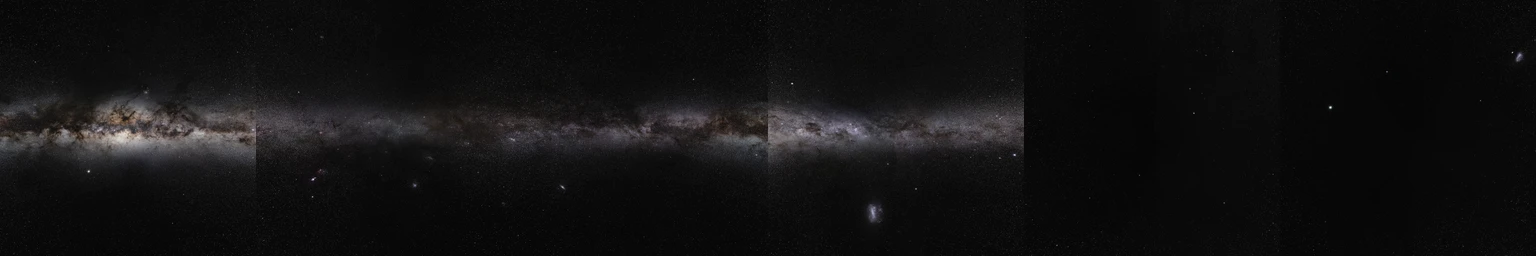
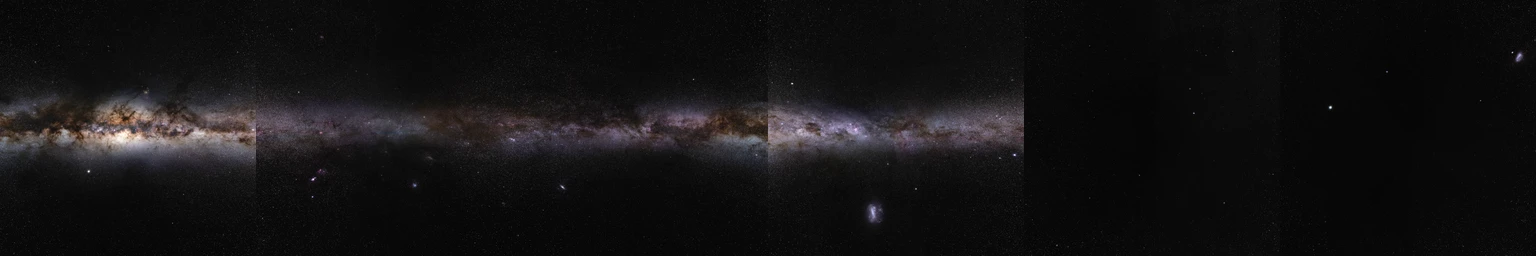
Recover observed warm and cool Milky Way clouds while keeping stellar peaks subdued

diff --git a/docs/index.html b/docs/index.html
@@ -10,7 +10,7 @@
   <link rel="icon" href="assets/lab.svg" type="image/svg+xml">
   <link rel="preload" as="image" href="assets/space/sun-atlas-visible.webp" fetchpriority="high">
   <link rel="preload" as="image" href="assets/space/corona-optical-poster.webp">
-  <script defer src="survey-sky.js?v=e98d0e96c6"></script>
+  <script defer src="survey-sky.js?v=9db1ea2994"></script>
   <link rel="stylesheet" href="style.css?v=bef73a6b09">
   <script defer src="initial.js?v=8fbc8dd904"></script><script defer src="media.js?v=a3470a0f5e"></script><script defer src="gravity.js?v=946a34cb27"></script><script defer src="orientation.js?v=ab67e6a648"></script><script defer src="stars.js?v=fe36ec13e3"></script><script defer src="map-space.js?v=d5f2ddea76"></script><script defer src="flyby.js?v=d7892f0148"></script><script defer src="solar-emission.js?v=59e888d152"></script><script defer src="solar.js?v=782690dd93"></script><script defer src="saturn-rings.js?v=4f814181e8"></script><script defer src="map-materials.js?v=b04f07c3ce"></script><script defer src="map.js?v=c5d659563a"></script><script defer src="optics.js?v=4a7a374746"></script><script defer src="software.js?v=a676e39286"></script><script defer src="flight.js?v=49c66cbb40"></script><script defer src="assets/vendor/satellite.min.js?v=6fd7487abb"></script><script defer src="catalog-orbits.js?v=ad4aee257c"></script><script defer src="catalog-data.js?v=a4e973682e"></script><script defer src="catalog-chart.js?v=c170c484e7"></script><script defer src="catalog.js?v=40f450b2d1"></script><script defer src="satellite-layer.js?v=a6886381e1"></script><script defer src="cosmos.js?v=a3a8915ae3"></script><script defer src="exo-model.js?v=2716ee6f92"></script><script defer src="compact-optics.js?v=76324eb82f"></script><script defer src="exo-materials.js?v=11d25b7eb7"></script><script defer src="exo-view.js?v=4f668c7f00"></script><script defer src="app.js?v=3083b51bc5"></script>
 </head>
@@ -221,7 +221,7 @@
   <p><b>동행 비행</b>에서는 태양계와 함께 이동하는 카메라로 지난 365일 궤적의 일부를 가까이서 봅니다. 자동 이동 중에는 시선 방향을 유지한 채 관측 위치가 천천히 바뀌어 가까운 행성과 먼 별의 위치 차이가 드러납니다. 선은 각 천체가 지나온 위치를 이은 자취이며, 오래된 구간일수록 흐려집니다. <b>화면만 보기</b>를 누르면 이름과 조작판을 숨길 수 있습니다.</p>
   <p><b>궤도 전경</b>은 은하수를 향해 이동하는 태양계와 지난 1년의 궤적을 비스듬히 바라봅니다. 가까운 궤적은 넓게 펼쳐지고 먼 궤적은 별하늘 쪽으로 가늘게 이어집니다. 세로 화면에서는 여덟 행성과 1년의 궤적이 화면의 긴 방향을 따라 놓입니다. <b>보기 설정 → 시간 눈금</b>에서 천체를 고르면 과거 위치와 진행 방향이 보입니다. 두 시점은 각각 각도와 확대를 기억하며 <b>기본 구도</b>로 되돌릴 수 있습니다.</p>
   <p>태양이 시야에 들어오면 카메라가 별하늘의 노출을 낮춥니다. <b>보기 설정 → 별빛 강조</b>로 은하수의 어두운 부분을 더 볼 수 있습니다. 기본 은하 지도는 공전 궤적을 읽기 쉽도록 천체와 궤도의 폭을 확대합니다. 은하 진행 방향으로 이동한 거리는 실제 계산값을 유지합니다. <b>실제 비율</b>을 켜면 천체의 반지름과 거리에 같은 축척을 적용합니다. <a href="https://eol.jsc.nasa.gov/FAQ/default.htm" target="_blank" rel="noreferrer">NASA · 우주 사진의 노출</a></p>
-  <p>궤도 전경과 동행 비행에서는 태양과 행성이 잘 보이도록 별빛을 낮췄습니다. 보랏빛 은하수와 먼지 띠, 가까운 은하 네 곳은 밤하늘 사진에 함께 담겨 있습니다. 먼 은하 16곳의 빛도 실제 방향과 각지름에 맞춰 같은 하늘에 합쳤습니다. <b>보기 설정 → 은하 강조</b>를 켜면 희미한 은하를 찾기 쉽습니다. 은하나 이름을 누르거나 <b>보기 설정 → 은하 탐사</b>를 열면 스무 은하의 빛 분포를 입체로 돌려 보고 관측 사진과 비교할 수 있습니다. 두께와 뒷면은 모형으로 추정했습니다. <a href="https://www.legacysurvey.org/acknowledgment/" target="_blank" rel="noreferrer">Legacy Surveys / D. Lang (Perimeter Institute)</a> · <a href="https://creativecommons.org/licenses/by/4.0/" target="_blank" rel="noreferrer">CC BY 4.0</a> · <a href="https://ps1images.stsci.edu/cgi-bin/ps1cutouts" target="_blank" rel="noreferrer">Pan-STARRS1 / STScI</a> · <a href="https://github.com/mattiaverga/OpenNGC" target="_blank" rel="noreferrer">OpenNGC · CC BY-SA 4.0</a></p>
+  <p>궤도 전경과 동행 비행에서는 태양과 행성이 잘 보이도록 별빛을 낮췄습니다. 은하수의 별구름마다 관측 사진에 담긴 색을 살리고 어두운 먼지 띠의 결을 드러냈습니다. 가까운 은하 네 곳도 이 사진에 함께 담겨 있습니다. 먼 은하 16곳의 빛도 실제 방향과 각지름에 맞춰 같은 하늘에 합쳤습니다. <b>보기 설정 → 은하 강조</b>를 켜면 희미한 은하를 찾기 쉽습니다. 은하나 이름을 누르거나 <b>보기 설정 → 은하 탐사</b>를 열면 스무 은하의 빛 분포를 입체로 돌려 보고 관측 사진과 비교할 수 있습니다. 두께와 뒷면은 모형으로 추정했습니다. <a href="https://www.legacysurvey.org/acknowledgment/" target="_blank" rel="noreferrer">Legacy Surveys / D. Lang (Perimeter Institute)</a> · <a href="https://creativecommons.org/licenses/by/4.0/" target="_blank" rel="noreferrer">CC BY 4.0</a> · <a href="https://ps1images.stsci.edu/cgi-bin/ps1cutouts" target="_blank" rel="noreferrer">Pan-STARRS1 / STScI</a> · <a href="https://github.com/mattiaverga/OpenNGC" target="_blank" rel="noreferrer">OpenNGC · CC BY-SA 4.0</a></p>
   <p>은하 궤적의 기본 하늘은 칠레와 라팔마에서 찍은 은하수 전천 사진입니다. 6,000 × 3,000 원본을 여섯 방향으로 나눠 투영하고 히파르코스 별의 위치에 맞췄습니다. <b>보기 설정 → 가이아 별지도</b>를 켜면 같은 방향을 NASA/SVS가 Gaia DR2 관측으로 재구성한 지도로 볼 수 있습니다. <a href="https://www.eso.org/public/images/eso0932a/" target="_blank" rel="noreferrer">은하수 사진 ESO/S. Brunier</a> · <a href="https://creativecommons.org/licenses/by/4.0/" target="_blank" rel="noreferrer">CC BY 4.0</a> · 투영과 밝기 조정. <a href="https://svs.gsfc.nasa.gov/4851/" target="_blank" rel="noreferrer">NASA/Goddard Space Flight Center Scientific Visualization Studio · ESA/Gaia/DPAC</a></p>
   <p><b>태양 기준</b>에서는 그때의 태양 위치에서 본 궤도를 그립니다. <b>은하 기준</b>에서는 태양계 전체가 우리은하의 회전 방향으로 움직인 거리까지 더해 지난 365일의 궤적을 그립니다. 기본 카메라는 현재 태양계를 따라갑니다. <b>카메라 고정</b>을 누르면 관측 위치가 고정되어 태양과 행성이 화면을 가로질러 이동합니다. 지도를 드래그하면 같은 궤적을 옆에서도 볼 수 있습니다.</p>
   <p>태양이 우리은하를 한 바퀴 도는 데에는 약 2억 2천만 년이 걸립니다. 태양 부근의 원운동 속도를 약 230 km/s로 두고 짧은 구간을 직선으로 근사했습니다. 행성 궤도면은 이 진행 방향에 기울어져 있어 행성은 공전하면서 태양보다 앞서거나 뒤처지기도 합니다. 실험 시작 전의 자취는 원래 태양계를 거꾸로 적분해 구했습니다. 실험 선택 후 실행하면 해당 시점부터 달라진 자취가 이어집니다.</p>

diff --git a/docs/survey-sky.js b/docs/survey-sky.js
@@ -10,7 +10,8 @@ globalThis.createSurveySky = function createSurveySky(invalidate) {
   let dir="",generation=0;
   function skyFile(name){
     const path=dir+name+".webp";
-    return globalThis.LabPacked?.[path]||path+"?v=diffuse-sky-1";
+    const version=dir.endsWith("photographic/")?"optical-clouds-2":"diffuse-sky-1";
+    return globalThis.LabPacked?.[path]||path+"?v="+version;
   }
   function initialize(){
     const vertex="attribute vec2 corner; varying vec2 screen; void main(){screen=corner; gl_Position=vec4(corner,0.,1.);}";

diff --git a/README.md b/README.md
@@ -14,7 +14,7 @@
 
 [토성 고리 가까이 보기](https://chadchad99.github.io/orbit-lab/#map/galaxy/saturn/near/play)에서 0.03배속으로 안쪽과 바깥쪽 고리의 공전을 비교할 수 있습니다. 고리 위 네 구간의 명암은 입자의 움직임을 드러내기 위해 강조한 예시입니다.
 
-궤도 전경과 동행 비행에서는 맑은 하늘 사진의 보랏빛 은하수와 먼지 띠를 유지하고, 개별 별의 밝기를 낮춰 태양과 행성이 잘 보이게 했습니다. 외부 은하의 빛은 실제 방향과 각지름에 맞춰 같은 하늘에 담았습니다. **보기 설정 → 은하 강조**를 켜면 작은 은하를 찾기 쉬워집니다. 은하의 이름을 누르거나 **보기 설정 → 은하 탐사**를 열면 은하 20개의 중심부와 먼지 띠, 나선팔을 확대하고 시점을 돌릴 수 있습니다. 빛 분포는 관측 사진에서 가져왔고, 두께와 뒷면은 추정했습니다. **관측 사진**에서 같은 은하의 실제 관측 모습도 확인할 수 있습니다. [안드로메다은하 탐사](https://chadchad99.github.io/orbit-lab/#galaxy/m31) · [막대나선은하 NGC 1365 탐사](https://chadchad99.github.io/orbit-lab/#galaxy/ngc1365) · [은하별 관측 자료](docs/assets/catalog/cosmos/structures.json)
+궤도 전경과 동행 비행에서는 ESO의 가시광 사진에서 은하수 별구름마다 관측된 색과 먼지 띠의 질감을 살리고, 개별 별의 밝기를 낮춰 태양과 행성이 잘 보이게 했습니다. 외부 은하의 빛은 실제 방향과 각지름에 맞춰 같은 하늘에 담았습니다. **보기 설정 → 은하 강조**를 켜면 작은 은하를 찾기 쉬워집니다. 은하의 이름을 누르거나 **보기 설정 → 은하 탐사**를 열면 은하 20개의 중심부와 먼지 띠, 나선팔을 확대하고 시점을 돌릴 수 있습니다. 빛 분포는 관측 사진에서 가져왔고, 두께와 뒷면은 추정했습니다. **관측 사진**에서 같은 은하의 실제 관측 모습도 확인할 수 있습니다. [안드로메다은하 탐사](https://chadchad99.github.io/orbit-lab/#galaxy/m31) · [막대나선은하 NGC 1365 탐사](https://chadchad99.github.io/orbit-lab/#galaxy/ngc1365) · [은하별 관측 자료](docs/assets/catalog/cosmos/structures.json)
 
 은하 궤적의 기본 하늘은 ESO/S. Brunier가 칠레와 라팔마에서 촬영한 은하수 전천 사진입니다. 6,000 × 3,000 원본의 색을 살리고 은하수의 먼지 띠와 히파르코스 별을 같은 하늘 좌표에 맞췄습니다. **보기 설정 → 가이아 별지도**를 켜면 같은 방향을 Gaia DR2 기반 NASA/SVS 지도로 볼 수 있습니다. 히파르코스 별 25,723개 중 측정값이 있는 25,713개에는 고유운동을 적용하고, 행성 곁에서는 거리가 알려진 별의 시차도 반영합니다. 화성과 목성 사이에는 JPL 목록에서 뽑은 소행성 1,024개의 위치를 날짜에 따라 계산합니다. 세레스나 베스타의 이름을 누르면 궤도를 볼 수 있습니다. **태양계 밖 → 별하늘 → 궁수자리 A***에서 은하 중심의 방향과 EHT가 관측한 전파 고리를 확인할 수 있습니다. [NASA/SVS · ESA/Gaia/DPAC 별 지도](https://svs.gsfc.nasa.gov/4851/) · [ESO 은하수 사진](https://www.eso.org/public/images/eso0932a/) · [EHT Collaboration 관측](https://www.eso.org/public/images/eso2208-eht-mwa/)
 
